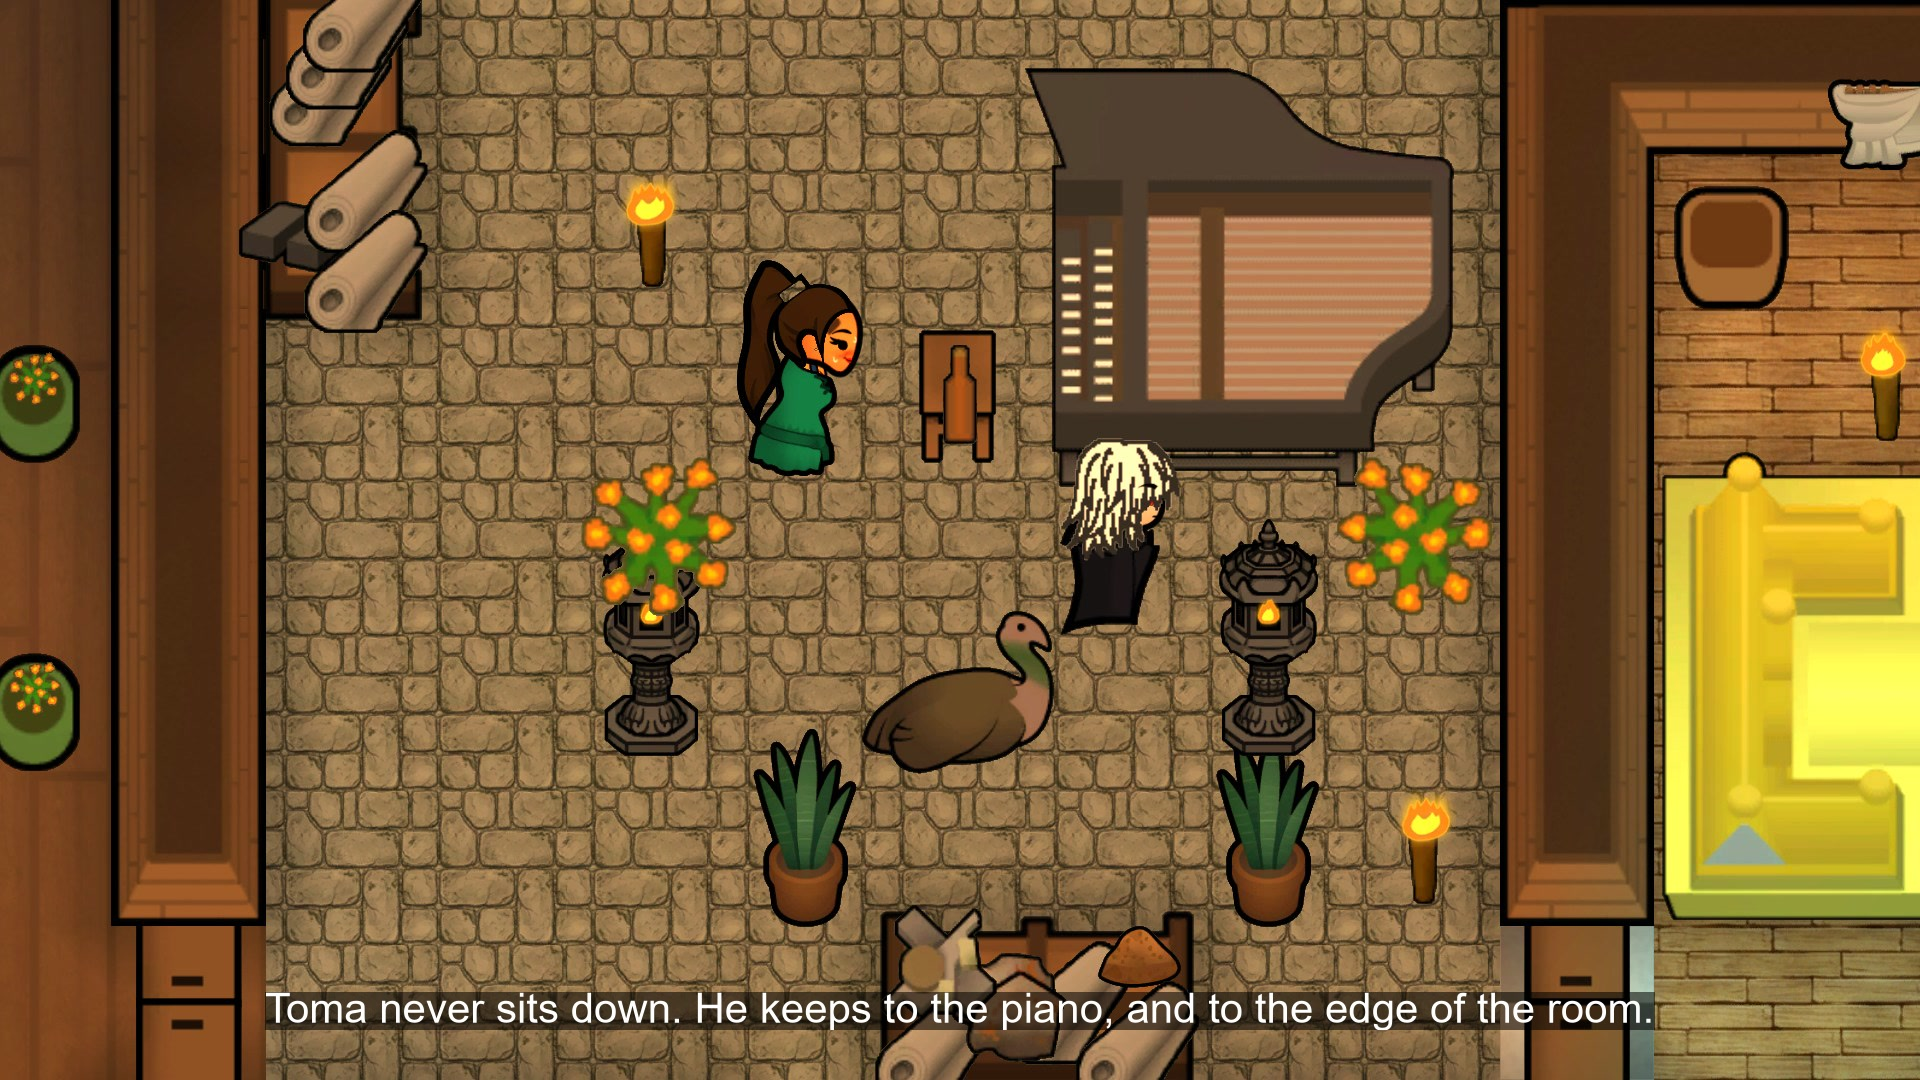
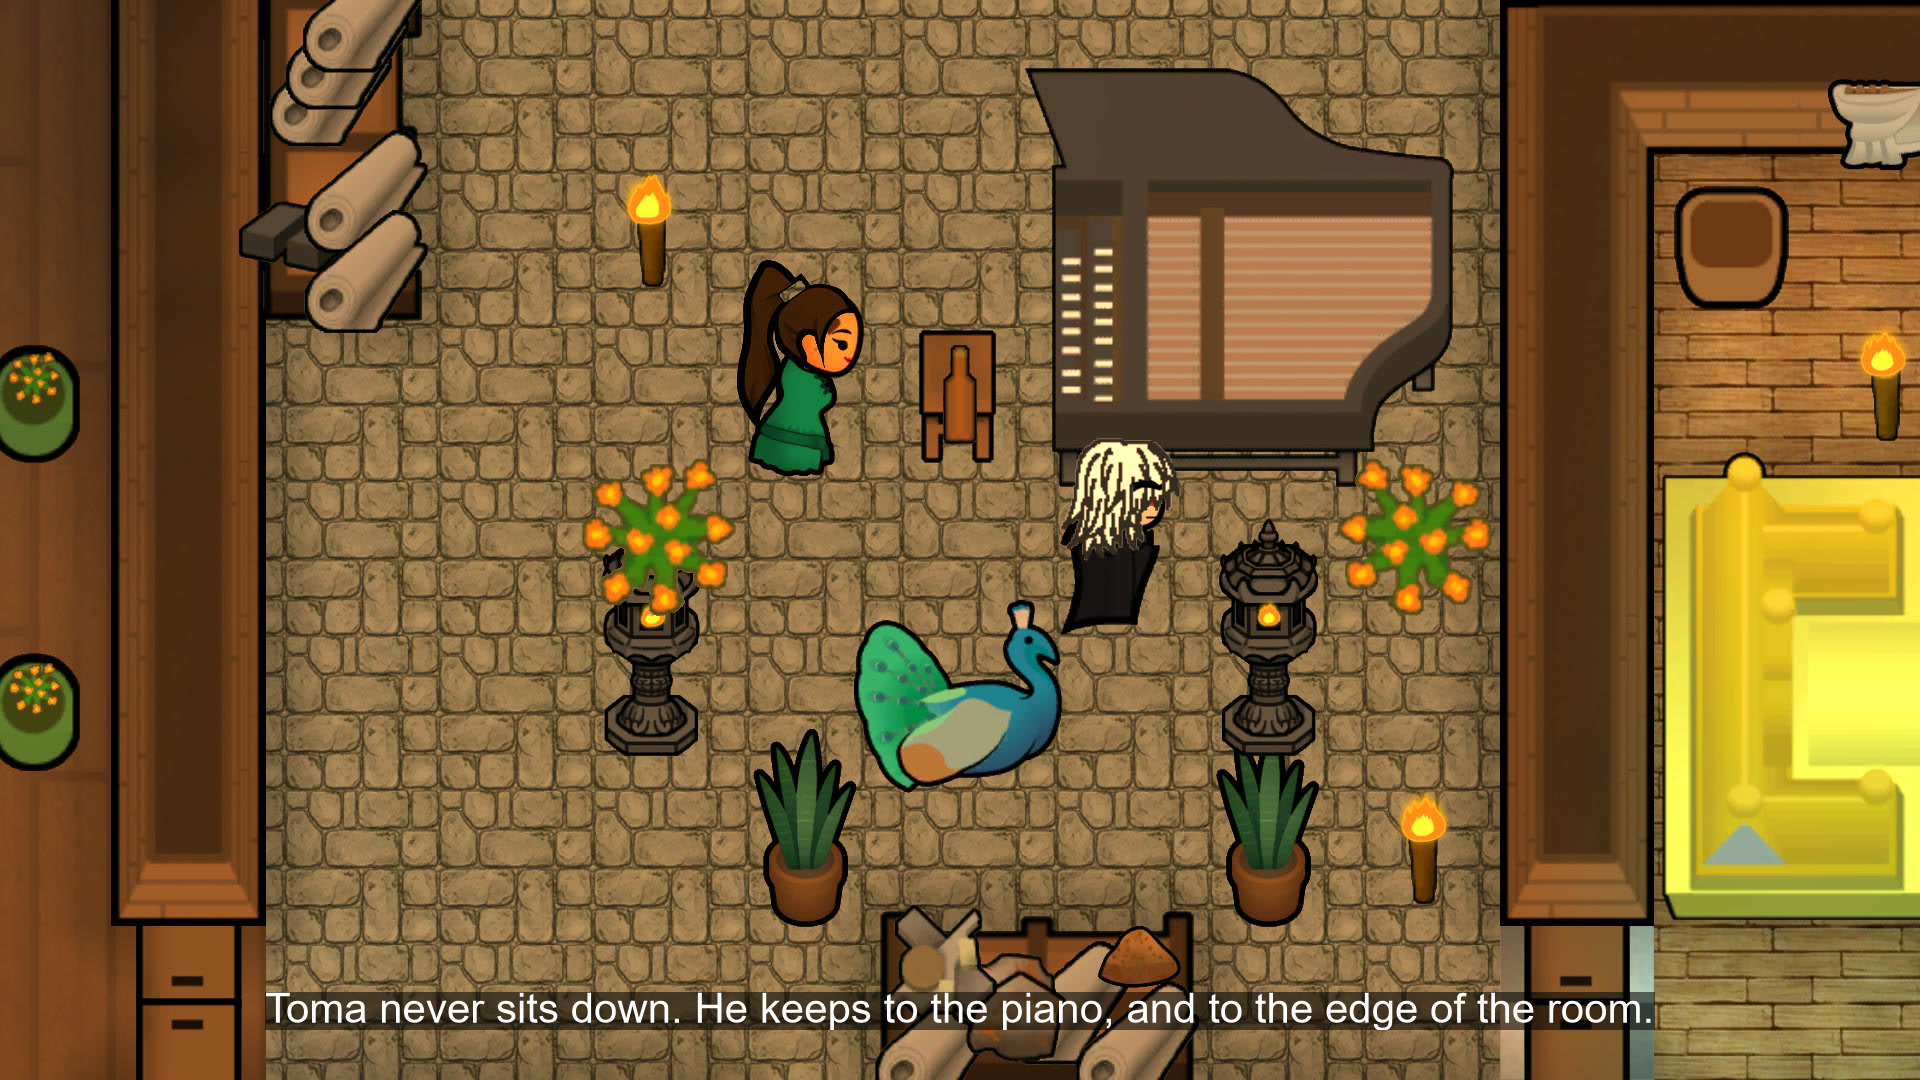
Gallery 2: eyes open (expression normal held), smirk kept, promoted from b554; STATUS

diff --git a/STATUS.md b/STATUS.md
@@ -22,7 +22,7 @@ tested_on:    six complete passes green on the tree of `f678f05` (2026-09-28): E
 tested_1_7:   yes  # 2026-10-13, ticket 72c6, feature 01-loads only (1 passed, 0 failed), RimWorld 1.7.4976 rev1043, English, map sans-facultatifs, on e12a2f3; no supportedVersions change before Virginie confirms
 workshop:     3806708754
 remaining:
-  - TICKET b554 QUEUED 2026-11-07 (commit 3bb1364, gallery 2 replay, evidence `Tests/Pickle/Inbox/2026-11-07-gallery-terrace-decor-7`, decor map, auto runner): director verdict on cd57 = REFUSED (Nelim eyes closed). Cause: `Nelim has her own face` sets expression "blink" (closed lids), "held neutral" keeps it. Fix: `"Nelim" facial expression "normal" is held` added after it (feature 19). On RUN_DONE read the capture: eyes open, smirk kept, Beer on stool, Toma angry, no sweat; good = replace both `Art/Gallery*/2-*`. Pre-check Check-FeatureDefs.js false positive on the comma list of `I dress` (3 Core defs): filed with -SkipDefCheck.
+  - TICKET b554 GREEN and gallery 2 PROMOTED 2026-11-07 (1 passed, 55 s, hetzner, peak 6915 MiB = 6.75 GiB, evidence `Tests/Pickle/Inbox/2026-11-07-gallery-terrace-decor-7`): `"Nelim" facial expression "normal" is held` fixed the closed eyes. Read: eyes open, smirk kept, Beer on stool, Toma black coat angry, no sweat, tunic covers. Weak: cloth shelves top left and bottom edge, peacock large, Toma face half hidden by hair. Replaced clean `Art/Gallery-clean/2-*` and subtitled `Art/Gallery/2-*` (same subtitle). Check-FeatureDefs comma-list fix (NPT 0f93dd9): -SkipDefCheck no longer needed. Inbox run pruned.
   - GALLERY.md rule 2026-11-07 (read): at shootGallery the order is sync-nsb, write-shotlist (rate-gallery on the plan to 5 per scene, then scenarios, then `scripts/Check-ShotlistVsScenario.ps1 -Mod`), review-gallery twice; criterion g now needs the story readable IN the image. Before any replay: run rate-gallery on the plan and Check-ShotlistVsScenario. Runner stays auto.
   - unverified: the sampled stocks show the beetle at four trader kinds and the seraph at two, not every seller of the possible list (the defs name four kinds with Royalty); how dangerous the beetle feels in a colony (balance, not automatable)
   - fragile: `Mod/Patches/NocturnalAnimals.xml` guards on the other mod's display name (`[XND] Nocturnal Animals (Continued)`); `Tests/Test-Mod.ps1` group 14 compares it with the installed copy when present
@@ -46,8 +46,8 @@ remaining:
   - gallery 1 to 7 promoted 2026-11-03 (clean originals in `Art/Gallery-clean`, subtitled in `Art/Gallery`, 2.7 MB; sources: 1 `c576` (Nelim South, plate still over her mouth, her eyes and bun show, Rina smiles, Misaka fringe reads: accepted as is), 2 and 4 `8ac0/3aa4` (redo-8), 3, 5, 6, 7 `90b9` (redo-10)); the gallery runs are deleted (captures live in Art). Weak points kept: j on 1, 3, 7; Nelim mouth hidden by the plate on 1 (owner may ask NPT for another carried-item placement). Next: owner accepts the seven images, mountPreview/prepareRelease, `social_preview_sha256` stale (Preview rebuilt 2026-11-03: renderer defaults, article A smaller, cover top left), republish GitHub social preview
   - ideas not started: `BACKLOG.md`
 session:      local_30b7ac1a-4071-4f6e-8e96-b8195da6629e  # code aCSCaH (owner 2026-10-25); ticket 90b9 still lists local_e82f0b57 as Owner, TM routes START/END/RUN_DONE here
-updated:      2026-11-06, resume: protocols read at 39b2d8b, ticket 66a2 red (see remaining)
-protocols_read_sha: 31e4f12c1a85531a1f695c4c918749915d73ff25
+updated:      2026-11-07, resume: protocols read at f0219f10, ticket b554 green, gallery 2 promoted
+protocols_read_sha: f0219f10b948804b3bfd2586c5fca74bf45c3805
 ---
 # A Certain Series - Creatures and Hair Renew — status
 
